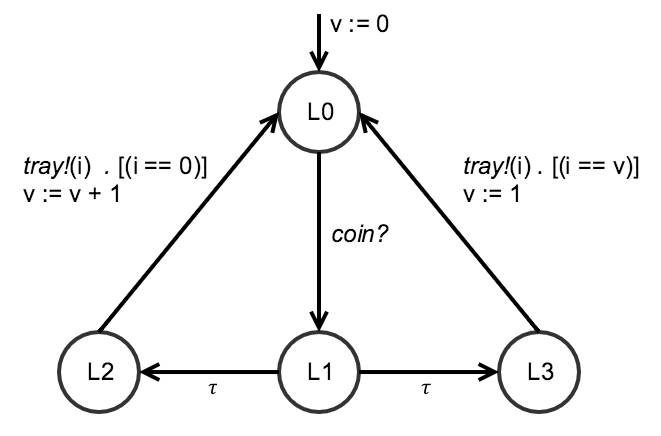
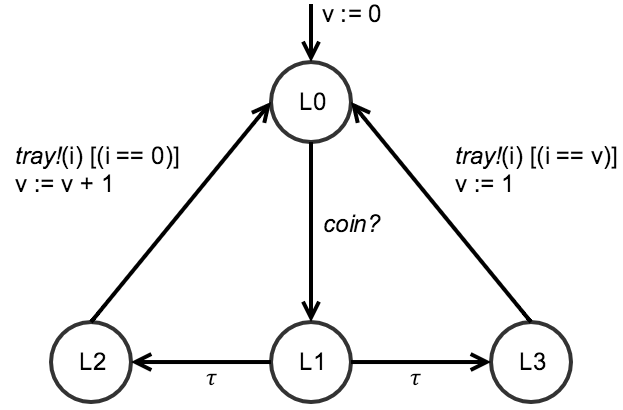
Fix a few typo + print layout

Changed region(s): [[0.0305, 0.0, 1.0, 0.9951]]

diff --git a/src/related-work/1_testing.tex b/src/related-work/1_testing.tex
@@ -49,11 +49,11 @@ data, to a system under test in order to observe phenomena
 existence of \textit{test outputs} for instance. We then have to
 decide on a suitable \textit{verdict}, which expresses the
 assessment made. The two most well-known verdicts are $Pass$ and
-$Fail$. We call \textit{test case} (TC), a structure that is
+$Fail$. We call \textit{Test Case} (TC), a structure that is
 compound of \textit{test data}, \emph{i.e.}  inputs which have
 been devised to test the system, an expected behavior, and an
 expected output \cite{5733835}. A set of test cases is called a
-\textit{test suite} (TS).
+\textit{Test Suite} (TS).
 
 Such an intuition refers to the \textbf{\emph{active testing}}
 methodology, \emph{i.e.} when the system under test is
@@ -432,11 +432,11 @@ definition of the LTS model below, but we refer to
     \end{itemize}
 
     We write $q \xrightarrow[]{t} q'$ if there is a transition
-    labeled $t$ from state $q$ to state $q'$ , \emph{i.e.} $(q,
+    labeled $t$ from state $q$ to state $q'$ , i.e. $(q,
     t, q') \in T$.
 
     The labels in $L$ represent the observable actions of a
-    system, \emph{i.e.} the interactions of the system with its
+    system, i.e. the interactions of the system with its
     environment.  Internal actions are denoted by the special
     label $\tau \not\in L$. Both $\tau$ and states are assumed to
     be unobservable for the environment.
@@ -450,8 +450,9 @@ definition of the LTS model below, but we refer to
 \begin{example}
     Figure \ref{fig:lts-example} presents the Labeled Transition
     System $lts_{machine}$ representing a coffee machine. There
-    is a button interaction ($button$), and labels for coffee
-    ($coffee$) and tea ($tea$). It is a graph where nodes
+    is a first label representing a button interaction
+    ($button$), and two other labels for coffee ($coffee$) and
+    tea ($tea$). It is represented as a graph where nodes
     represent states, and labeled edges represent transitions.
 
     We have $lts_{machine} = <\{ S1, S2, S3, S4 \}, \{ button, coffee, tea
@@ -466,7 +467,8 @@ definition of the LTS model below, but we refer to
         \end{center}
 
         \caption{An example of a Labeled Transition System
-        representing a coffee machine.}
+        representing a coffee machine and its internal actions
+        ($\tau$).}
         \label{fig:lts-example}
     \end{figure}
 \end{example}
@@ -493,9 +495,9 @@ Based on this definition, we give the formal definition of a
 notion of data and data-dependent control flow.  The use of
 symbolic variables helps describe infinite state machines in a
 finite manner. This potentially infinite behavior is represented
-by the semantics of a Symbolic Transition System (STS), given in
-terms of LTS. We give some definitions related to the STS model
-below, but we refer to \cite{FTW05} for a more detailed
+by the semantics of a \emph{Symbolic Transition System} (STS),
+given in terms of LTS. We give some definitions related to the
+STS model below, but we refer to \cite{FTW05} for a more detailed
 description.
 
 \begin{definition}[Variable assignment]
@@ -532,14 +534,14 @@ description.
         \item $l0 \in L$ is the initial location;
 
         \item $V$ is a finite set of location (or internal)
-            variables. $D_v$ denotes the domain in which a
-            variable $v$ takes its values;
+            variables. $D_v$ denotes the domain of the
+            variable $v$;
 
         \item $V0$ is \emph{an} initialization of the location
             variables $V$;
 
         \item $I$ is a finite set of parameters (also known as
-            interaction variables), disjoint from $V$;
+            \emph{interaction variables}), disjoint from $V$;
 
         \item $\Lambda$ is a finite set of symbolic actions
             $a(p)$ with $a$ a symbol (or action), and
@@ -592,7 +594,7 @@ l_{n-1} \xrightarrow{(a_n,G_n,A_n)} l_n = l'$.
     v \mapsto 0 \}, \{ i \}, \{ coin, tray \}, \rightarrow >$
     where $\rightarrow$ is given by the directed edges between
     the locations in Figure \ref{fig:sts-example}.  We can write
-    $L2 \xrightarrow{tray(i), G = [(i == 0)]} L0$.
+    $L2 \xrightarrow{tray(i), [(i == 0)]} L0$.
 
     \begin{figure}[ht]
         \begin{center}
@@ -637,7 +639,7 @@ with parameter assignments.
     \begin{center}
     {\Large
     $\frac{l_1 \xrightarrow{a(p),G,A}l_2, ~\alpha \in D_p, ~v \in
-        D_V, ~v' \in D_V, ~v \cup \alpha \models G, ~v' = A(v
+        D_V, v' \in D_V, v \cup \alpha \models G, v' = A(v
         \cup \alpha)}{(l_1,v) \xrightarrow{a(p),\alpha} (l_2,v') }$
     }
 	\end{center}
@@ -888,7 +890,7 @@ record, active testing works by stimulating the system under
 test, \emph{i.e.} observing outputs of an implementation for
 predefined inputs. In the next section, we introduce a different
 approach that does not actively interact with a system, known as
-passive testing.
+\emph{passive testing}.
 
 \subsection{Passive testing}
 \label{sec:related:testing:active-passive}
@@ -909,14 +911,14 @@ sets. These works can be grouped in three different categories:
 \begin{itemize}
 
     \item \textbf{Invariant satisfiability:} invariants represent
-        properties that are always true. They are constructed by
-        hand from a specification, and later checked on the
-        collected traces. Similarly to runtime verification
-        \cite{Leucker2009293}, this approach allows to test
-        complex properties on an implementation. It gave birth to
-        several works in the literature. For instance, the
-        passive testing method presented in \cite{CMdO09} aims
-        to test the satisfiability of invariants on Mobile
+        properties that are always true. They are often
+        constructed by hand from a specification, and later
+        checked on the collected traces. Similarly to runtime
+        verification \cite{Leucker2009293}, this approach allows
+        to test complex properties on an implementation. It gave
+        birth to several works in the literature. For instance,
+        the passive testing method presented in \cite{CMdO09}
+        aims to test the satisfiability of invariants on Mobile
         \emph{ad hoc}
         network (MANET) routing protocols.  Different steps are
         required: definition of invariants from the

diff --git a/src/model-inference/1_web-applications.tex b/src/model-inference/1_web-applications.tex
@@ -193,7 +193,7 @@ human expert behavior. These layers are depicted in Figure
 
 \begin{figure}[ht]
     \begin{center}
-        \includegraphics[width=1.0\linewidth]{figures/soict_se.png}
+        \includegraphics[width=0.9\linewidth]{figures/soict_se.png}
     \end{center}
 
     \caption {The Models generator stack. Each layer yields a
@@ -279,8 +279,8 @@ formulate the following hypotheses on the inference rules:
     \item \textbf{Finite complexity:} a rule can only be applied
         a limited number of times to the same knowledge base;
 
-    \item \textbf{Soundness:} the inference rules are Modus
-        Ponens, \emph{i.e.} simple implications that lead to
+    \item \textbf{Soundness:} the inference rules are \emph{Modus
+        Ponens}, \emph{i.e.} simple implications that lead to
         sound facts if the original facts are true (P implies Q;
         P is asserted to be true, so therefore Q must be true.);
 
@@ -351,7 +351,7 @@ Since we wish to translate such traces into IOSTSs, we turn these
 textual items into a structured \emph{valued action}
 $(a(p),\alpha)$ with $a$ the HTTP verb and $\alpha$ a valuation
 over the variable set $p=\{URI,request,response\}$. This is
-captured by the following definition:
+captured by the next definition.
 
 \begin{definition}[Structured HTTP trace] Let $t=
 req_1,resp_1$, \dots, $req_n,$ $resp_n$ be a raw HTTP trace
@@ -827,7 +827,7 @@ transition. The application of these layers ends in a finite time
 
 \subsubsection{Layer 3}
 
-This layers includes a (potentially empty) set of generic rules
+This layer includes a (potentially empty) set of generic rules
 that can be applied to a large set of applications sharing
 similarities, \emph{e.g.}, applications written with the same framework
 or same programming language.  This layer has two roles:
@@ -1030,7 +1030,7 @@ rules may have different forms:
 \begin{itemize}
 \item They can be applied to a single transition only. In this
 case, the rule replaces the transition action to add more sense
-to the action. The rule given in Figure \ref{fig:rule:deauth} is
+to the action. The rule given in Figure~\ref{fig:rule:deauth} is
 an example, which recognizes a user "deauthentication",
 \emph{i.e.} when a user logs out, and adds a new action
 $Deauthentication$. This rule means that if a $PostRedirection$

diff --git a/src/model-inference/2_production-systems.tex b/src/model-inference/2_production-systems.tex
@@ -525,8 +525,8 @@ This analysis is performed on the assignments $(point:=val)$
 found in the first and last valued events of the traces of
 $Traces(Sua)$ since $point$ captures the product physical
 location and especially the entry and exit points of $\mathit{Sua}$.
-We obtain two ratios $Rinit(point:=val1)$ and
-$Rfinal(point:=val2)$.  Based on these ratios, one can deduce the
+We obtain two ratios $Rinit((point := val1))$ and
+$Rfinal((point := val2))$.  Based on these ratios, one can deduce the
 entry point set $POINT_{init}$ and the exit point set
 $POINT_{final}$ if $Traces(Sua)$ is large enough. Pragmatically,
 we observed that the traces collected during one or two days are
@@ -602,21 +602,21 @@ BEGIN\;
 \emph{Step 1. $Traces(Sua)$ segmentation}
 
 \ForEach{$t=(a_1(p), \alpha_1) \dots (a_n(p), \alpha_n) \in Traces(Sua)$} {
-$Rinit((point:=val1)\subset \alpha_1)++$\;
-$Rfinal((point:=val2)\subset \alpha_n)++$\;
+$Rinit((point:=val1) \in \alpha_1)++$\;
+$Rfinal((point:=val2) \in \alpha_n)++$\;
 }
 $POINT_{init}=\{(point:=val) \mid Rinit((point:=val))>10$\% or belongs to the N highest ratios$\}$\;
 $POINT_{final}=\{(point:=val) \mid Rfinal((point:=val))>10$\% or belongs to the M highest ratios$\}$\;
 \BlankLine
 
-$ST := \emptyset$\;
+$ST = \emptyset$\;
 \For{$i = 1, \dots, n$}{
     \ForEach{$\alpha_i=(point:=val) \in POINT_{init}$} {
-        $ST_i := \{(a_1(p), \alpha_1) \dots (a_n(p), \alpha_n)\in Traces(Sua) \mid
-        \alpha_i\subset \alpha_1, \exists ~(point:=val2) \subset
+        $ST_i = \{(a_1(p), \alpha_1) \dots (a_n(p), \alpha_n)\in Traces(Sua) \mid
+        \alpha_i \in \alpha_1, \exists ~(point:=val2) \in
     \alpha_n \wedge (point:=val2) \in POINT_{final}    \}$\;
 
-        $ST := ST \cup \{ ST_i \}$\;
+        $ST = ST \cup \{ ST_i \}$\;
     }
 }
 
@@ -629,12 +629,12 @@ $ST := \emptyset$\;
         \mid
         p \sim_{(pid)} p' \wedge \sigma_i \sim_{(pid)} \sigma_i' \wedge
         \sigma_j \sim_{(pid)} \sigma_j'$}{
-            $ST_i := ST_i \setminus \{  t \}$\;
+            $ST_i = ST_i \setminus \{  t \}$\;
         }
     }
 }
 
-$CTraces(Sua) := \displaystyle\bigcup_{1 \leq i \leq n} ST_i$\;
+$CTraces(Sua) = \displaystyle\bigcup_{1 \leq i \leq n} ST_i$\;
 END\;
 
 \caption{Trace segmentation algorithm}

diff --git a/src/related-work/0_related-work.tex b/src/related-work/0_related-work.tex
@@ -3,7 +3,24 @@
 \chapter{State of the art}
 \label{sec:related}
 
+In this chapter, we survey the literature in software testing
+first, and then in model inference applied to software systems.
+We start by introducing what software testing means, mentioning
+some important notions as well as the different types of testing.
+We then present what Model-based Testing (MbT) is, along with a
+few definitions and common terms employed in MbT. The software
+testing part ends with a review on some passive testing
+techniques, and why they are interesting in our case. The second
+part of this chapter presents what model inference is, from
+active inference, \emph{i.e.} methods interacting with a software
+system to extract knowledge about it, to passive inference,
+\emph{i.e.} techniques that infer models from a fixed set of
+knowledge, such as a set of execution traces, source code,
+or even documentation.\\
+
 \minitoc
+
+\pagebreak
 
 \input{src/related-work/1_testing}
 \input{src/related-work/2_model-inference}

diff --git a/src/related-work/2_model-inference.tex b/src/related-work/2_model-inference.tex
@@ -60,7 +60,7 @@ techniques on the next page, incremental
 learning techniques on page \pageref{sec:active-increment}, and
 the model generation by means of automatic testing of
 event-driven applications providing Graphical User Interfaces
-GUIs) on page \pageref{sec:active-crawling}. Passive inference
+(GUIs) on page \pageref{sec:active-crawling}. Passive inference
 techniques are extensively described in Section
 \vref{sec:passive}. We cover passive inference techniques using
 event sequence-based abstraction on page
@@ -237,7 +237,7 @@ and then, models are abstracted to symbolic Mealy machines,
 encoding extrapolated invariants on data parameters as guarded
 transitions.
 
-Other work proposed to optimize the $\EuScript{L}^*$ algorithm
+Other works proposed to optimize the $\EuScript{L}^*$ algorithm
 itself. For instance, Irfan \emph{et al.} proposed the $\EuScript{L}_1$
 algorithm \cite{irfan12} to infer Mealy machines, which uses a
 modified observation table and avoids adding unnecessary elements

diff --git a/thesis.tex b/thesis.tex
@@ -155,17 +155,20 @@ production systems with a Model-based Testing approach}
 \pagestyle{plain}				% display just page numbers
 \input{src/abstract}		    % INCLUDE: the abstracts
 \cleardoublepage
+
+\blankpage
 \blankpage
 
 \input{src/acknowledgement}     % INCLUDE: acknowledgement
 \cleardoublepage
+
 \blankpage
 
 \setcounter{tocdepth}{3}		% define depth of toc
 \dominitoc
 \tableofcontents				% display table of contents
-
 \cleardoublepage
+
 \blankpage
 
 % --------------------------
@@ -187,6 +190,7 @@ production systems with a Model-based Testing approach}
 \listoffigures
 \cleardoublepage
 
+\blankpage
 \blankpage
 
 \phantomsection
@@ -210,6 +214,8 @@ production systems with a Model-based Testing approach}
 \input{src/conclusion/0_conclusion}
 
 \cleardoublepage
+
+\blankpage
 \blankpage
 
 % --------------------------
@@ -225,6 +231,7 @@ production systems with a Model-based Testing approach}
 }
 \cleardoublepage
 
+\blankpage
 \blankpage
 
 \input{src/colophon}

diff --git a/src/titlepages.tex b/src/titlepages.tex
@@ -32,18 +32,20 @@
     \rule[5pt]{\textwidth}{.4pt}\par
 
     \flushleft
-    Soutenue publiquement le 04 mai 2016\\
-    Devant le jury :
+    Soutenue publiquement le 04 mai 2016, devant le jury :
 
     \begin{tabular}{l l}
     \multicolumn{2}{l}{\uppercase{Présidente}}\\
     Hélène Waeselynck & Directrice de Recherche, LAAS/CNRS, Toulouse\\
+    & \\
     \multicolumn{2}{l}{\uppercase{Rapporteurs}}\\
     Ana Rosa Cavalli & Professeur à Télécom SudParis\\
     Roland Groz & Professeur à l'Institut Polytechnique de Grenoble\\
+    & \\
     \multicolumn{2}{l}{\uppercase{Examinateurs}}\\
     Farouk Toumani & Professeur des Universités, UBP/LIMOS, Clermont-Ferrand\\
     Pascal Lafourcade & Maître de Conférences HDR, UBP/LIMOS, Clermont-Ferrand\\
+    & \\
     \multicolumn{2}{l}{\uppercase{Directeur de thèse}}\\
     S\'ebastien Salva & Professeur des Universités, UDA/LIMOS, Clermont-Ferrand\\
     \end{tabular}

diff --git a/src/acknowledgement.tex b/src/acknowledgement.tex
@@ -5,4 +5,4 @@
 \label{sec:acknowledgement}
 \vspace*{-10mm}
 
-\TODO{}
+
